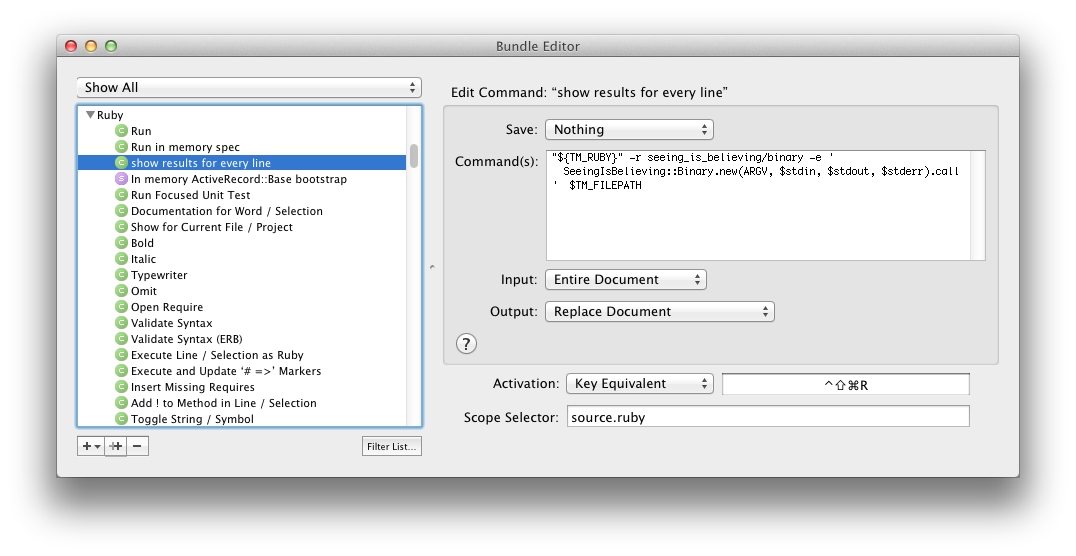
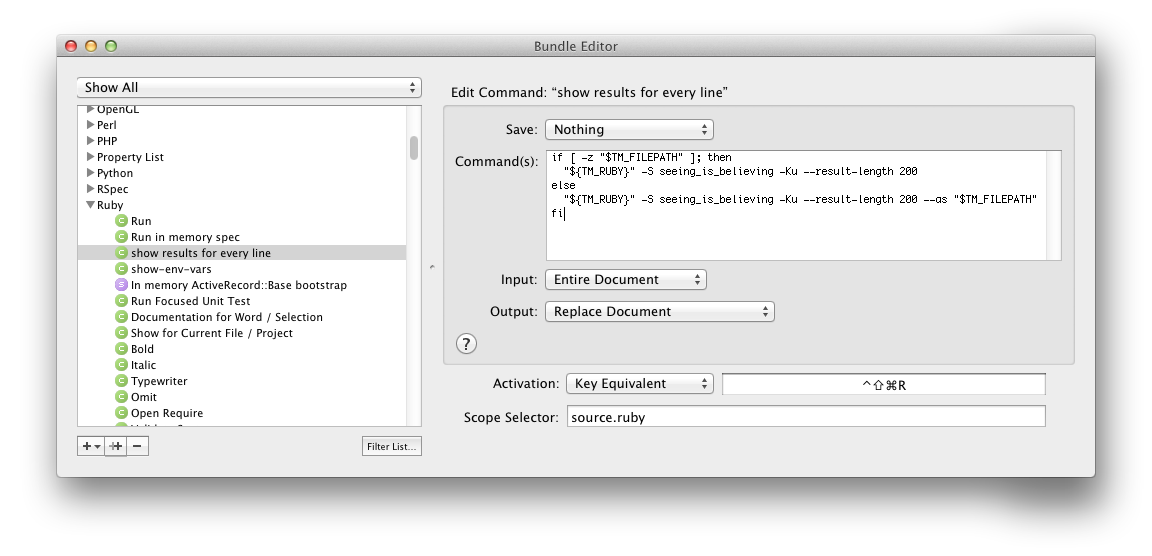
Update Textmate integration instructions

diff --git a/Readme.md b/Readme.md
@@ -88,9 +88,11 @@ TextMate Integration
 Go to the bundle editor, create this new command in the Ruby bundle:
 
 ```shell
-"${TM_RUBY}" -r seeing_is_believing/binary -e '
-  SeeingIsBelieving::Binary.new(ARGV, $stdin, $stdout, $stderr).call
-'  $TM_FILEPATH 2>/dev/null
+if [ -z "$TM_FILEPATH" ]; then
+  "${TM_RUBY}" -S seeing_is_believing -Ku --result-length 200
+else
+  "${TM_RUBY}" -S seeing_is_believing -Ku --result-length 200 --as "$TM_FILEPATH"
+fi
 ```
 
 It should look like this:
